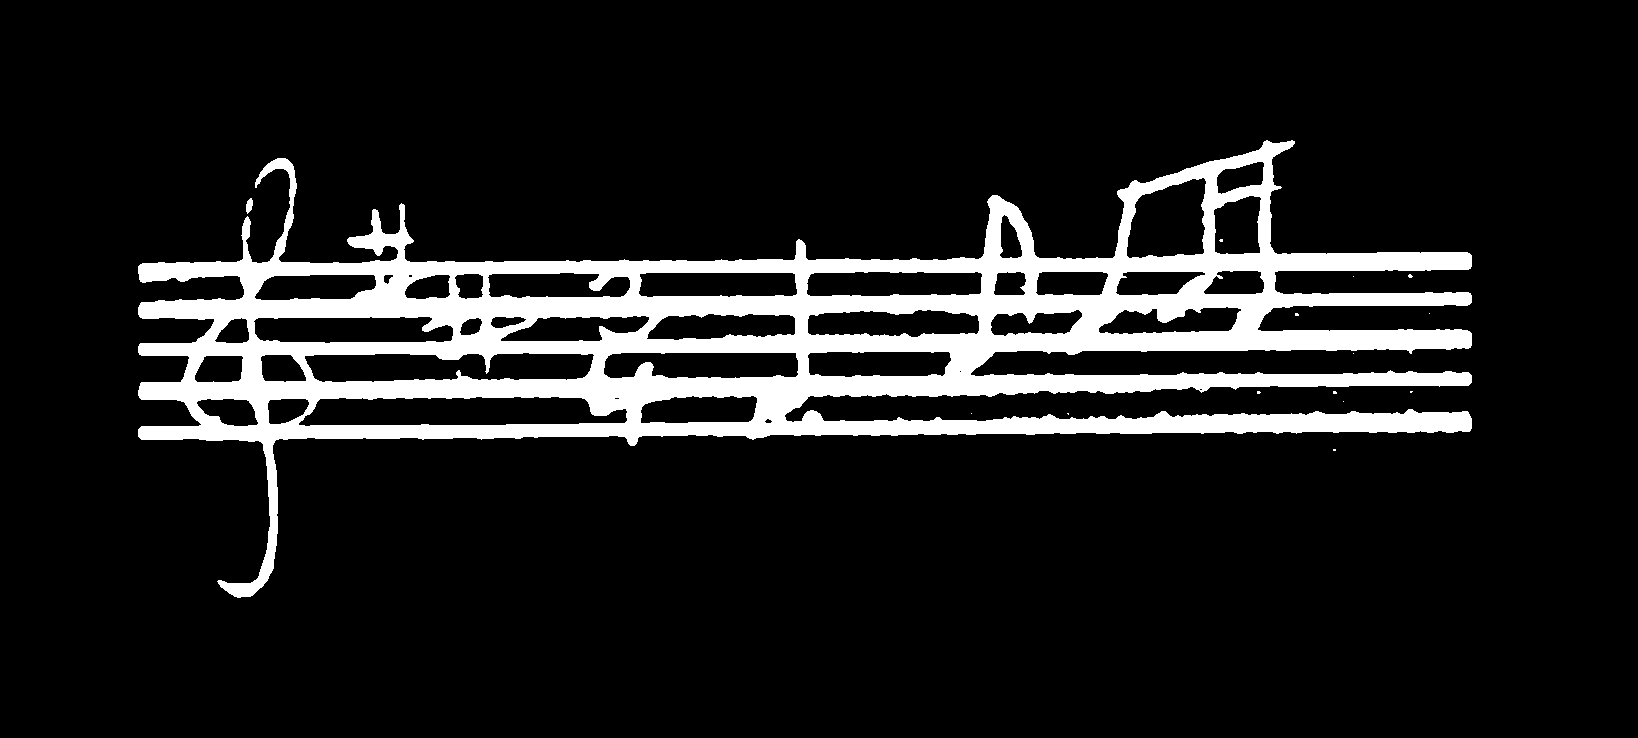
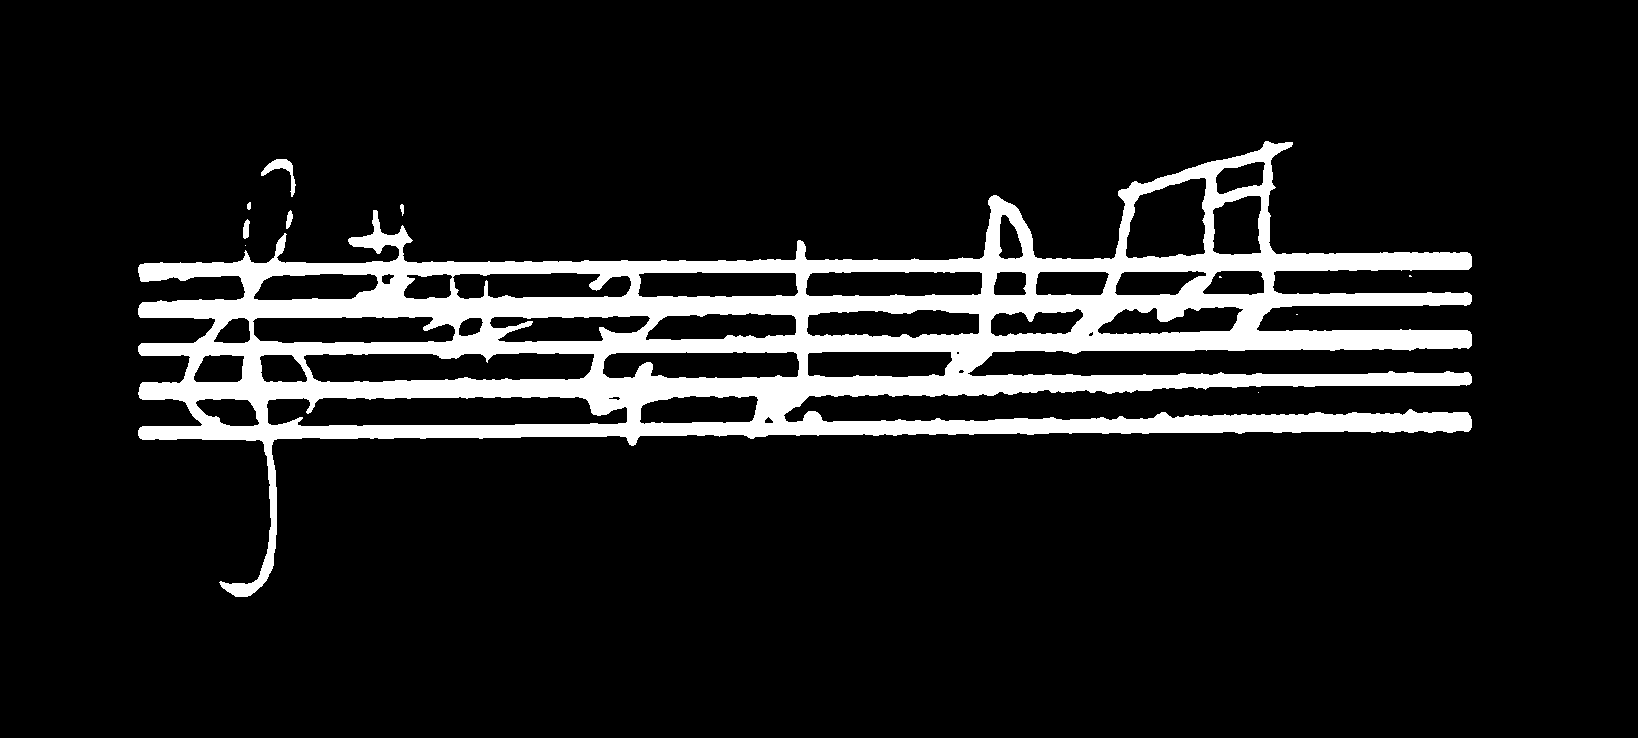
Experimental thresholding using histogram

Changed region(s): [[0.2179, 0.2805, 0.2491, 0.3117], [0.1557, 0.2182, 0.1868, 0.2493]]

diff --git a/main.py b/main.py
@@ -1,22 +1,15 @@
 import cv2
 import sys
 import ImageServices.InOut as Img_io
-import ImageServices.Basic as Img_bas
+import ImageServices.Colors as Img_bas
 import Constants.Colors as Color
 from run_sequences import *
-import numpy as np
-import matplotlib.pyplot as plt
 
-filename = 'img/frag'
-img = Img_io.load_img_grayscale(filename + '.jpg')
 
-hist, bin_edges = np.histogram(img)
-# plt.hist(img.ravel(), bins=256)
-xd = plt.hist(img.ravel(), bins=range(0, 255)) #, range=[-1, 256]) # , fc='k', ec='k')
-# fig = plt.gcf()
-plt.show()
+filename = 'img/frag1/frag1'
+img = Img_io.load_img_grayscale(filename + '.png')
 
-# binarized_img = Img_bas.binarize_img(img, filename)
-# run_morphology_operations(binarized_img, filename)
+binarized_img = Img_bas.binarize_img(img, filename)
+run_morphology_operations(binarized_img, filename)
 
 sys.exit(0)

diff --git a/LinesServices/Morphology.py b/LinesServices/Morphology.py
@@ -26,7 +26,8 @@ def get_horizontal_lines(img, img_width):
 def get_vertical_lines(img, img_height):
     vertical_size = img_height / 30
     vertical_structure = get_vertical_structure(vertical_size)
-    return erode_and_dilate(img, vertical_structure, 1)
+    vertical = erode_and_dilate(img, vertical_structure, 1)
+    return finishing_dilate(vertical)
 
 
 def smooth_image_with_saving(img, filename):
@@ -50,3 +51,9 @@ def smooth_image_with_saving(img, filename):
     smooth_edges = smooth * (edges.astype(smooth.dtype))
     cv2.bitwise_not(smooth_edges, smooth_edges)
     cv2.imwrite(filename + '_smooth.png', smooth_edges)
+
+
+# uzaleznic (5,5) od rozmiaru pieciolini. pomyslec nad normowaniem
+def finishing_dilate(img):
+    kernel = np.ones((5, 5), np.uint8)
+    return cv2.dilate(img, kernel, iterations=1)

diff --git a/ImageServices/Colors.py b/ImageServices/Colors.py
@@ -1,0 +1,23 @@
+import cv2
+import Constants.Colors as Color
+import matplotlib.pyplot as plt
+import numpy as np
+
+
+def binarize_img(img, filename, threshold=0):
+    # 11 - uzalezniac od r-ru pieciolini
+    img = cv2.GaussianBlur(img, (11, 11), 0)
+
+    if threshold == 0:
+        threshold = count_binarization_threshold(img)
+
+    ret, binarized_img = cv2.threshold(img, threshold, Color.WHITE, cv2.THRESH_BINARY_INV)
+    cv2.imwrite(filename + '_binarized.png', binarized_img)
+    return binarized_img
+
+
+def count_binarization_threshold(img):
+    colors_intensity, b, patches = plt.hist(img.ravel(), bins=range(0, 256), normed=True)
+    background_color = np.argmax(colors_intensity)
+    factor = (background_color * 50) / 255 - 10
+    return background_color - factor

diff --git a/run_sequences.py b/run_sequences.py
@@ -18,4 +18,4 @@ def run_morphology_operations(binarized_img, filename):
     cv2.bitwise_not(horizontal, horizontal)
     cv2.imwrite(filename + '_horizontal_bit.png', horizontal)
 
-    Morph.smooth_image_with_saving(vertical, filename)
+    #Morph.smooth_image_with_saving(vertical, filename)
